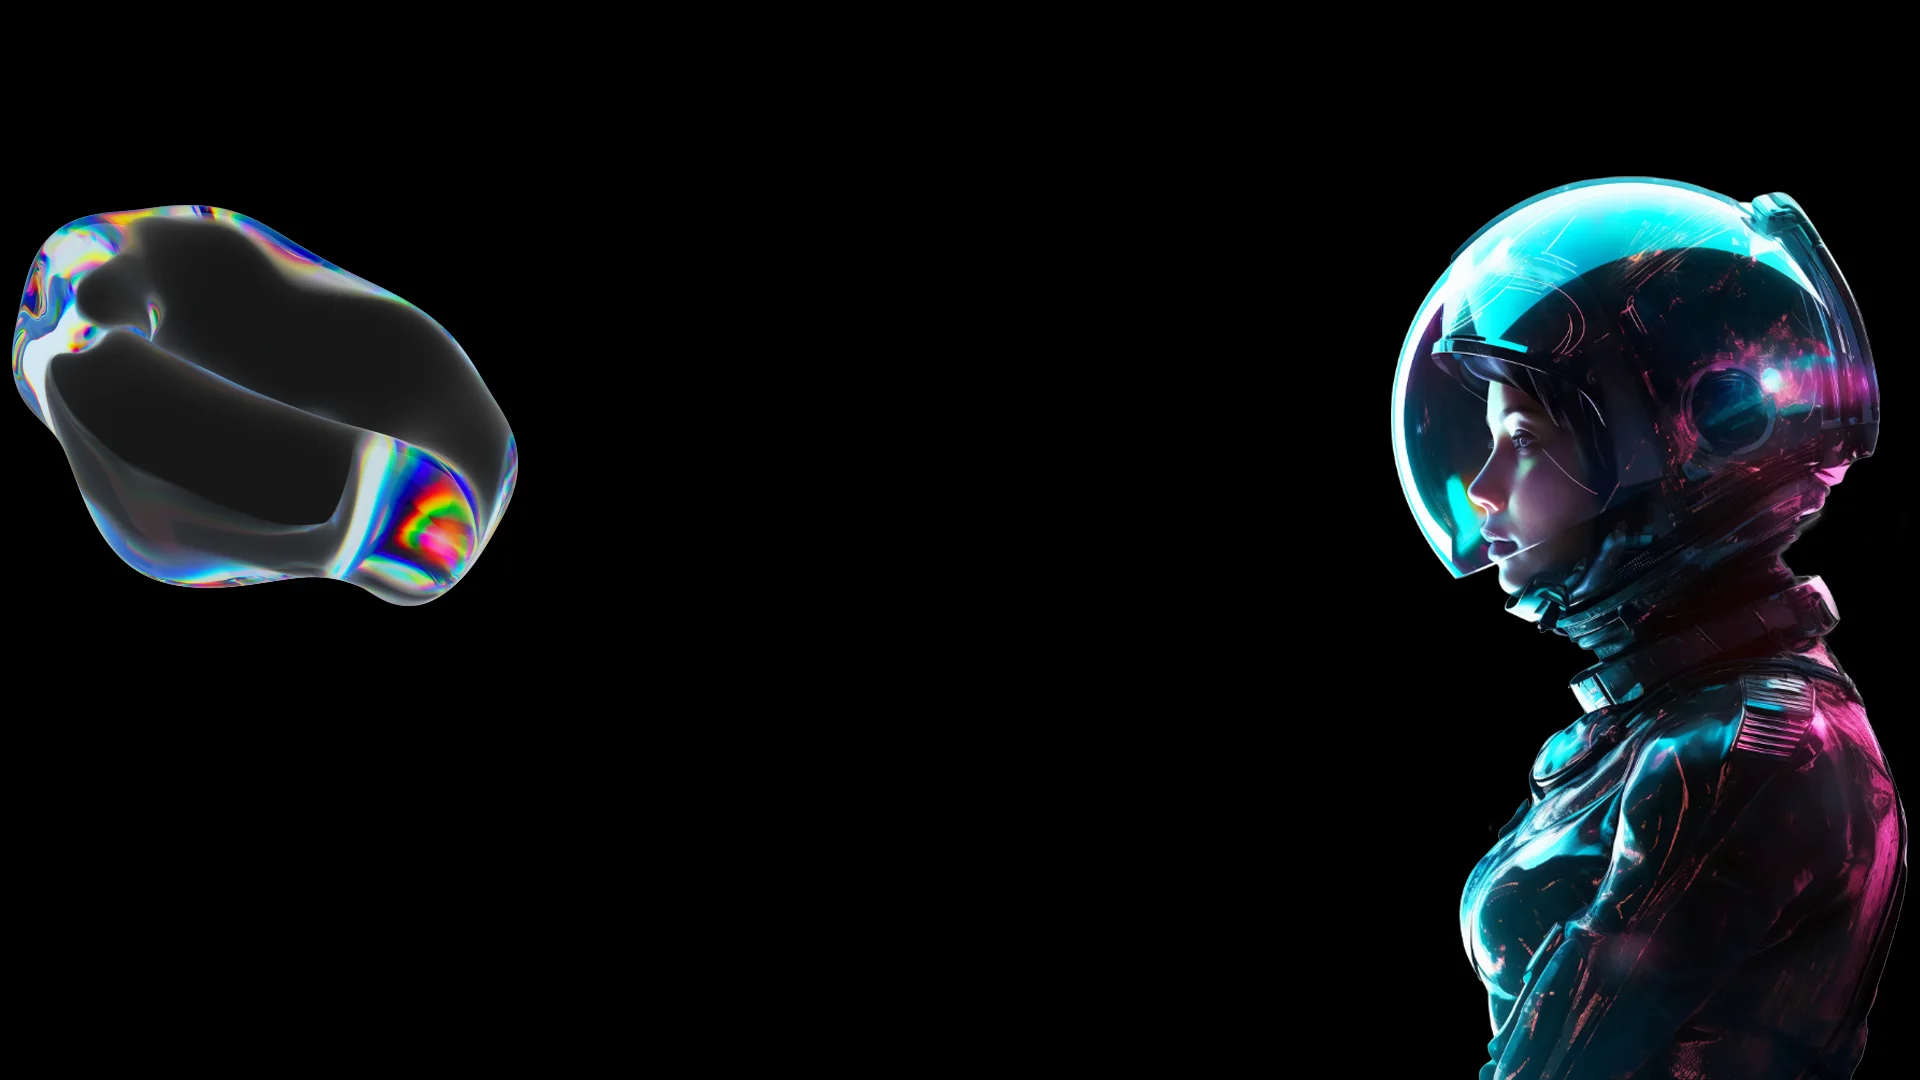
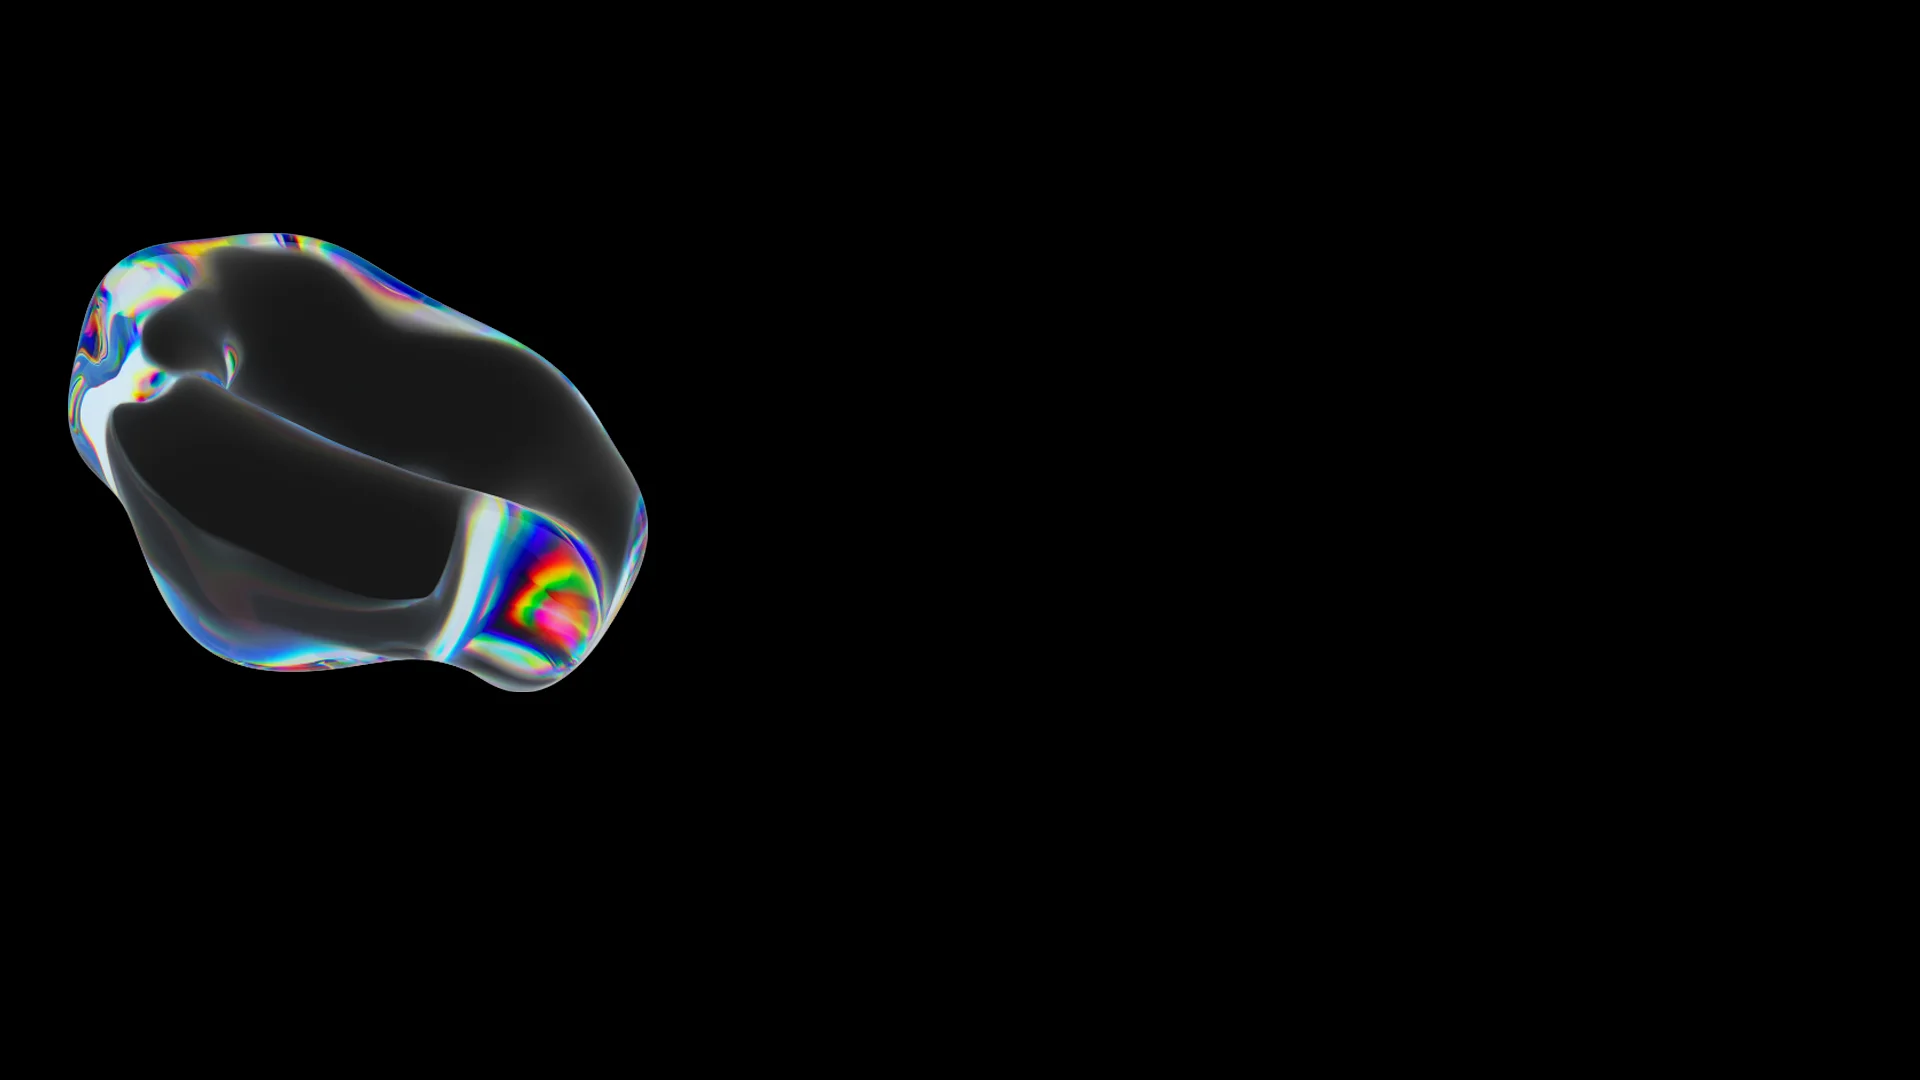
actualización de imágenes y estilos

Changed region(s): [[0.7188, 0.1528, 1.0, 1.0], [0.0, 0.1833, 0.3438, 0.6417]]

diff --git a/index.html b/index.html
@@ -108,15 +108,14 @@
     <div id="SEC_Space" style="width: 100vw; height: 99vh; position: relative;">
             <iframe src="./space.html" frameborder="0" width="100%" height="100%"></iframe>
     </div>
-
     <!-- Hola aquí es donde nos presentamos :) -->
-    <div id="Vision" class="background-welcome">
+    <div id="Hola" class="background-welcome">
         <div class="wrapper0" class="card-welcome">
             <span class="title-home">Somos</span><span class="title-number1">Devon.</span>
             <p class="subtitle-main"> _Creando el futuro juntos</p>
         </div>
     </div>
-    <!-- Contenedor Visión -->
+    <!-- Contenedor Ænima-->
     <div id="wrapper1">
         <div id="Vision" class="background-container1">
             <div class="card-container-a glass-effect">
@@ -134,8 +133,14 @@
             </div>
         </div>
     </div>
+    <div id="Astronata" class="background-welcome">
+        <div class="wrapper0" class="card-welcome">
+            <span class="title-home">Somos</span><span class="title-number1">Devon.</span>
+            <p class="subtitle-main"> _Creando el futuro juntos</p>
+        </div>
+    </div>
 
-    <!-- Contenedor Casos de Estudio -->
+    <!-- Contenedor Proyectos -->
     <div id="wrapper2">
         <div id="CasosDeEstudio" class="background-container2">
             <div class="card-container-b glass-effect">

diff --git a/Css/Style-First.css b/Css/Style-First.css
@@ -71,7 +71,7 @@ html {
 .card-menu {
   width: 120vh;
   height: 30px;
-  position: fixed;
+  position: relative;
   margin: 0px 0px;
   padding: 20px 20px;
 }
@@ -167,14 +167,14 @@ html {
 
   /* [ -- Glass Effect -- ] */
 
-  .background-welcome {
-    width: 100%;
-    height: 100vh;
-    position: relative;
-    background: url(https://devon.mx/dev/Images/Home/space.webp) no-repeat center;
-    background-size: cover;
-    display:flex;
-    align-items: center;
+.background-welcome {
+  width: 100%;
+  height: 100vi;
+  position: relative;
+  background: url(https://devon.mx/dev/Images/Home/space.webp) no-repeat center;
+  background-size: cover;
+  display:flex;
+  align-items: center;
 }
 
 .background-container1 {
@@ -187,6 +187,15 @@ html {
   align-items: center;
 }
 
+.background-astronauta {
+  width:100%;
+  height: 100vh;
+  position: relative;
+  background: url(https://devon.mx/dev/Images/Home/back2.webp) no-repeat center;
+  background-size: cover;
+  display:flex;
+  align-items: center;
+}
 .background-container2 {
   width:100%;
   height: 100vh;
@@ -196,7 +205,6 @@ html {
   display:flex;
   align-items: center;
 }
-
 .background-container3 {
   width:100%;
   height: 100vh;
